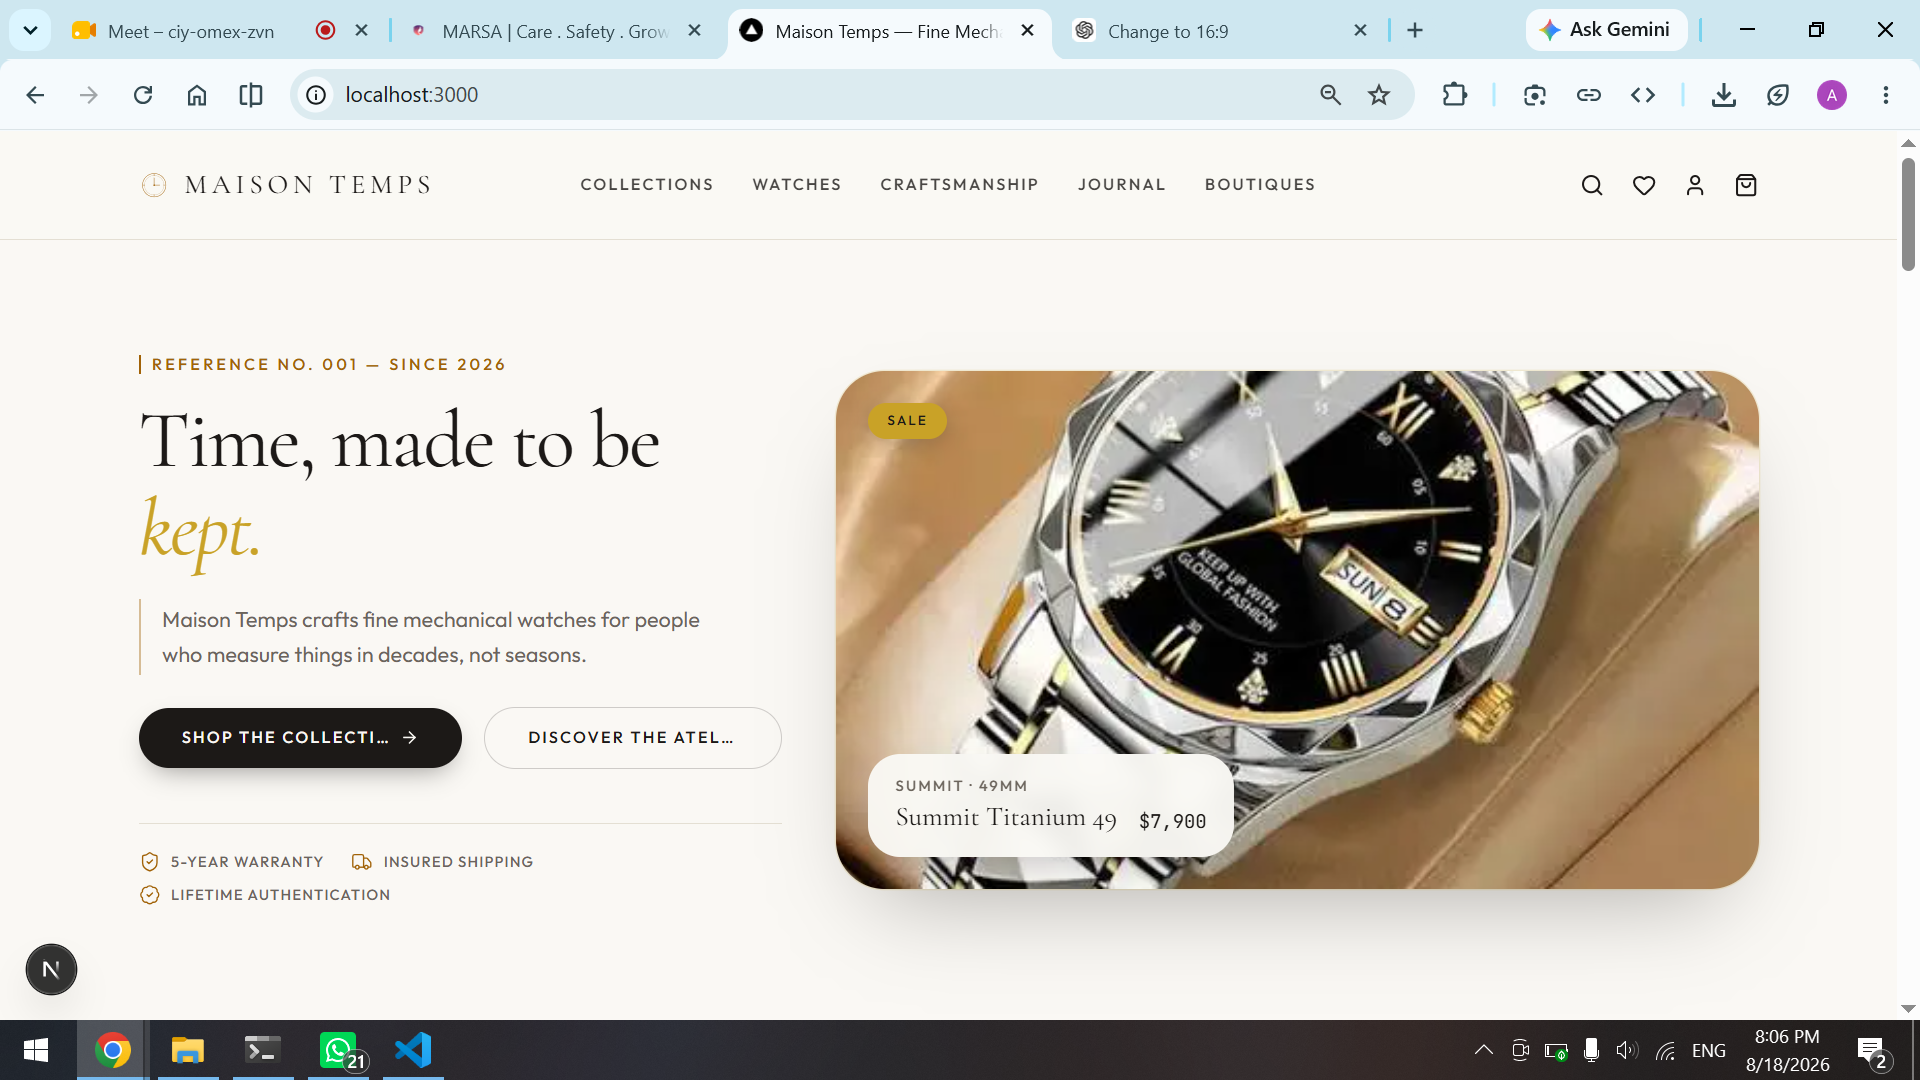
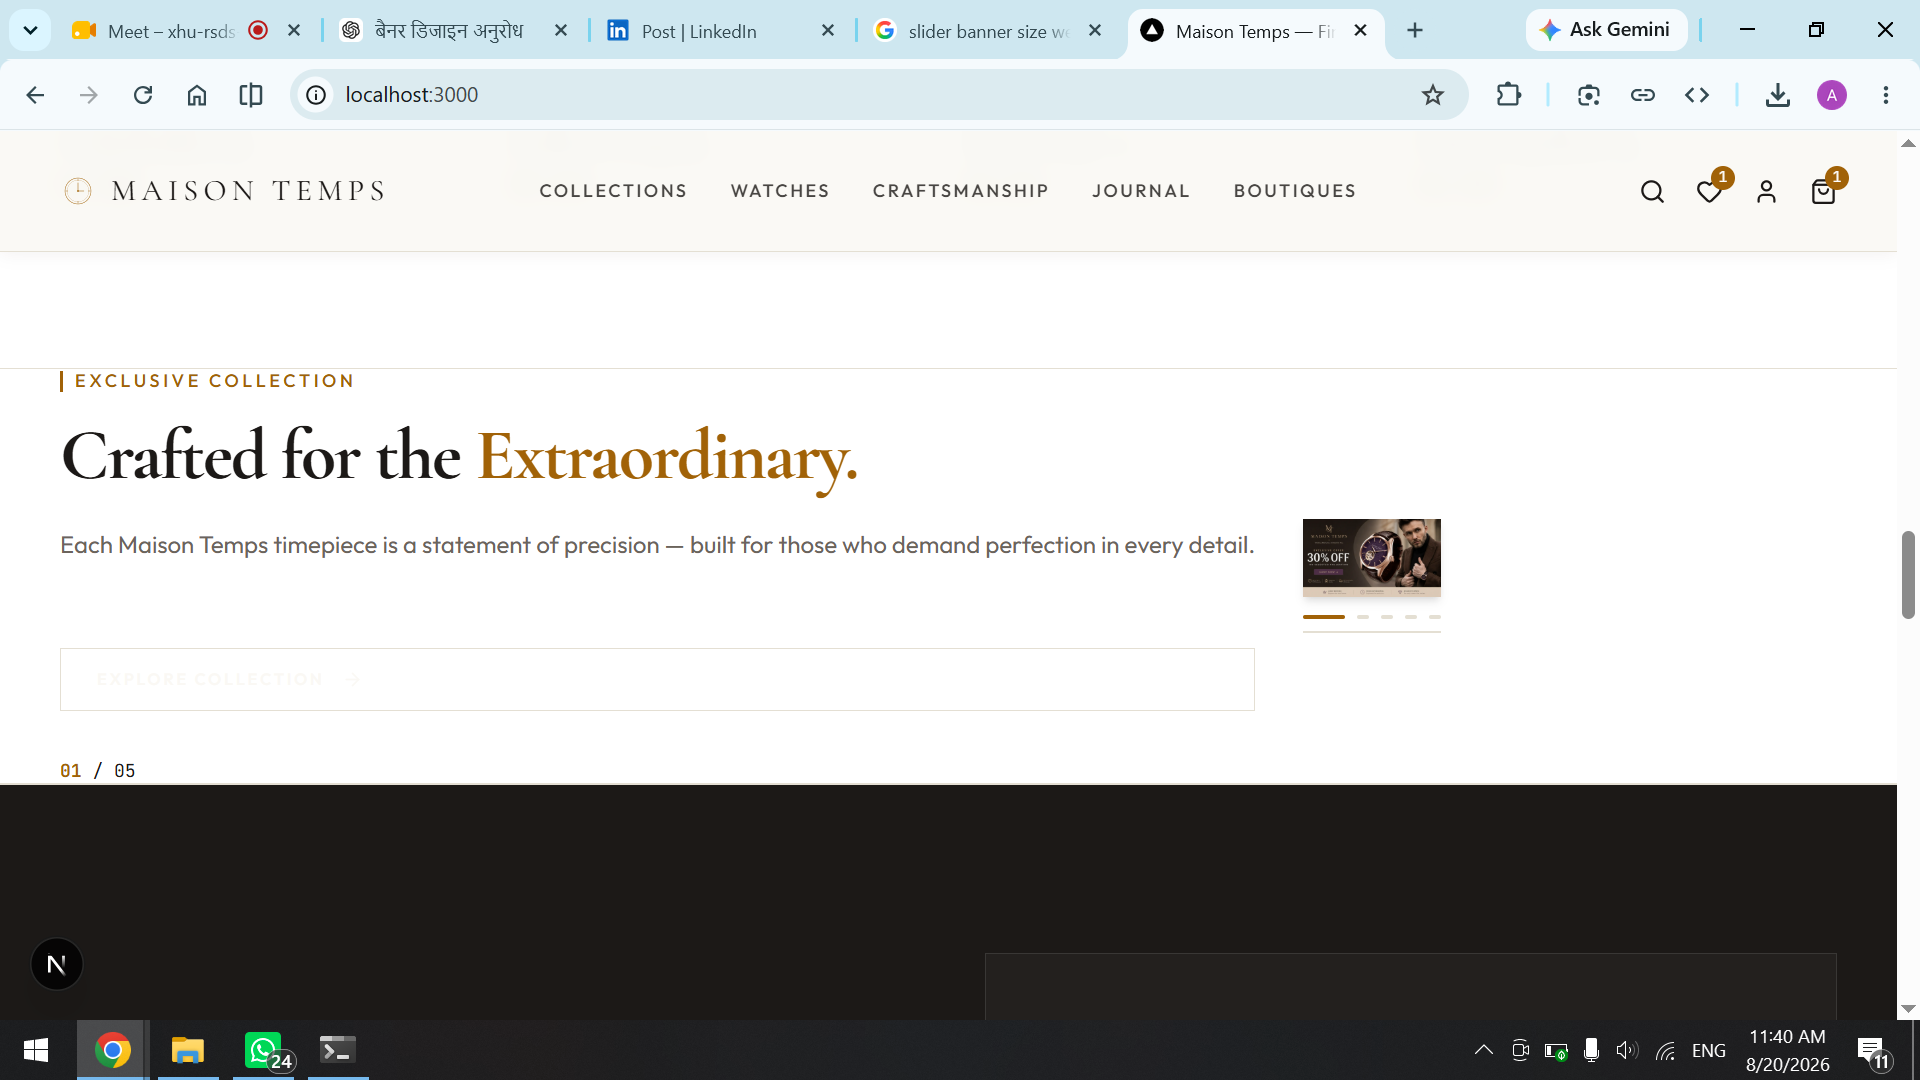
update

diff --git a/src/components/home/banner-slider.tsx b/src/components/home/banner-slider.tsx
@@ -2,7 +2,8 @@
 
 import { useState, useEffect, useCallback } from "react";
 import Image from "next/image";
-import { ChevronLeft, ChevronRight } from "lucide-react";
+import Link from "next/link";
+import { ChevronLeft, ChevronRight, ArrowRight } from "lucide-react";
 
 // Served in numeric order: 1 → 2 → 3 → 4 → 5
 const SLIDES = [
@@ -42,88 +43,127 @@ export function BannerSlider() {
 
   return (
     <section
-      className="w-full bg-white pb-5 pt-0"
+      className="w-full border-y border-hairline bg-white py-10 lg:py-14"
       aria-label="Promotional banners"
       onMouseEnter={() => setPaused(true)}
       onMouseLeave={() => setPaused(false)}
     >
-      {/* ── Banner frame: small side margins like the reference ── */}
-      <div className="mx-5 sm:mx-7 lg:mx-9">
+      <div className="mx-auto max-w-7xl px-6 lg:px-10">
 
-        {/* Image container — explicit responsive height so Next.js fill works */}
-        <div className="group/banner relative h-[200px] w-full overflow-hidden bg-secondary sm:h-[290px] lg:h-[400px] xl:h-[460px]">
+        {/* ── Split layout: text left · carousel right ── */}
+        <div className="flex flex-col gap-8 lg:flex-row lg:items-center lg:gap-14">
 
-          {/* Slides */}
-          {SLIDES.map((src, i) => (
-            <div
-              key={src}
-              className={`absolute inset-0 transition-opacity duration-700 ease-in-out ${
-                i === current ? "opacity-100" : "pointer-events-none opacity-0"
-              }`}
-              aria-hidden={i !== current}
-            >
-              <Image
-                src={src}
-                alt={`Promotional banner ${i + 1}`}
-                fill
-                sizes="(min-width: 1280px) calc(100vw - 72px), (min-width: 640px) calc(100vw - 56px), calc(100vw - 40px)"
-                className="object-cover"
-                priority={i === 0}
-              />
+          {/* ── LEFT: Editorial text ── */}
+          <div className="flex flex-col justify-center lg:w-[38%]">
+
+            <span className="eyebrow">Exclusive Collection</span>
+
+            <h2 className="mt-4 font-serif text-4xl font-extrabold leading-[1.08] tracking-tight text-foreground lg:text-5xl">
+              Crafted for the{" "}
+              <em className="not-italic text-gold">Extraordinary.</em>
+            </h2>
+
+            <p className="mt-5 max-w-xs text-[13.5px] leading-relaxed text-stone">
+              Each Maison Temps timepiece is a statement of precision —
+              built for those who demand perfection in every detail.
+            </p>
+
+            {/* Gold rule */}
+            <div className="mt-6 flex items-center gap-3">
+              <div className="h-[2px] w-10 bg-gold" />
+              <div className="h-[2px] w-3 bg-gold/30" />
             </div>
-          ))}
 
-          {/* ── Left arrow — dark square, sits at edge of banner ── */}
-          <button
-            type="button"
-            onClick={prev}
-            aria-label="Previous banner"
-            className="absolute left-0 top-1/2 z-10 -translate-y-1/2 flex h-11 w-11 cursor-pointer items-center justify-center bg-ink/70 opacity-0 transition-all duration-200 hover:bg-ink/90 group-hover/banner:opacity-100 lg:h-13 lg:w-13"
-          >
-            <ChevronLeft className="h-5 w-5 text-white" strokeWidth={1.5} />
-          </button>
+            {/* CTA */}
+            <Link
+              href="/collections"
+              className="group mt-8 inline-flex w-fit items-center gap-3 border border-ink bg-ink px-6 py-3 text-[11px] font-semibold uppercase tracking-[0.16em] text-white transition-all duration-200 hover:border-gold hover:bg-gold"
+            >
+              Explore Collection
+              <ArrowRight className="h-3.5 w-3.5 transition-transform duration-200 group-hover:translate-x-0.5" strokeWidth={2} />
+            </Link>
 
-          {/* ── Right arrow ── */}
-          <button
-            type="button"
-            onClick={next}
-            aria-label="Next banner"
-            className="absolute right-0 top-1/2 z-10 -translate-y-1/2 flex h-11 w-11 cursor-pointer items-center justify-center bg-ink/70 opacity-0 transition-all duration-200 hover:bg-ink/90 group-hover/banner:opacity-100 lg:h-13 lg:w-13"
-          >
-            <ChevronRight className="h-5 w-5 text-white" strokeWidth={1.5} />
-          </button>
-        </div>
+            {/* Slide counter */}
+            <p className="mt-8 font-mono text-xs text-stone/50">
+              <span className="text-gold font-semibold">{String(current + 1).padStart(2, "0")}</span>
+              {" / "}
+              {String(SLIDES.length).padStart(2, "0")}
+            </p>
+          </div>
 
-        {/* ── Dots + progress — below the banner, on white ── */}
-        <div className="mt-3 flex flex-col items-center gap-2.5">
+          {/* ── RIGHT: Banner carousel ── */}
+          <div className="lg:w-[62%]">
 
-          {/* Dots */}
-          <div className="flex items-center gap-2">
-            {SLIDES.map((_, i) => (
+            {/* Image frame — padding-bottom 56.25% = reliable 16:9 in any flex context */}
+            <div className="group/banner relative w-full overflow-hidden bg-secondary shadow-md" style={{ paddingBottom: "56.25%", height: 0 }}>
+              {/* Slides */}
+              {SLIDES.map((src, i) => (
+                <div
+                  key={src}
+                  className={`absolute inset-0 transition-opacity duration-700 ease-in-out ${
+                    i === current ? "opacity-100" : "pointer-events-none opacity-0"
+                  }`}
+                  aria-hidden={i !== current}
+                >
+                  <Image
+                    src={src}
+                    alt={`Promotional banner ${i + 1}`}
+                    fill
+                    sizes="(min-width: 1024px) 60vw, 100vw"
+                    className="object-cover"
+                    priority={i === 0}
+                  />
+                </div>
+              ))}
+
+              {/* Prev arrow */}
               <button
-                key={i}
                 type="button"
-                onClick={() => goTo(i)}
-                aria-label={`Go to banner ${i + 1}`}
-                className={`h-[3px] cursor-pointer rounded-full transition-all duration-300 ${
-                  i === current
-                    ? "w-7 bg-gold"
-                    : "w-2 bg-hairline hover:bg-gold/40"
-                }`}
-              />
-            ))}
+                onClick={prev}
+                aria-label="Previous banner"
+                className="absolute left-3 top-1/2 z-10 -translate-y-1/2 flex h-9 w-9 cursor-pointer items-center justify-center rounded-full border border-white/30 bg-white/20 opacity-0 shadow-lg backdrop-blur-md transition-all duration-200 hover:scale-110 hover:bg-white/35 group-hover/banner:opacity-100 lg:h-11 lg:w-11"
+              >
+                <ChevronLeft className="h-4 w-4 text-white" strokeWidth={2} />
+              </button>
+
+              {/* Next arrow */}
+              <button
+                type="button"
+                onClick={next}
+                aria-label="Next banner"
+                className="absolute right-3 top-1/2 z-10 -translate-y-1/2 flex h-9 w-9 cursor-pointer items-center justify-center rounded-full border border-white/30 bg-white/20 opacity-0 shadow-lg backdrop-blur-md transition-all duration-200 hover:scale-110 hover:bg-white/35 group-hover/banner:opacity-100 lg:h-11 lg:w-11"
+              >
+                <ChevronRight className="h-4 w-4 text-white" strokeWidth={2} />
+              </button>
+            </div>
+
+            {/* Dots + progress below image */}
+            <div className="mt-3 flex flex-col gap-2">
+              <div className="flex items-center gap-2">
+                {SLIDES.map((_, i) => (
+                  <button
+                    key={i}
+                    type="button"
+                    onClick={() => goTo(i)}
+                    aria-label={`Go to banner ${i + 1}`}
+                    className={`h-[3px] cursor-pointer rounded-full transition-all duration-300 ${
+                      i === current ? "w-7 bg-gold" : "w-2 bg-hairline hover:bg-gold/40"
+                    }`}
+                  />
+                ))}
+              </div>
+              <div className="h-px w-full bg-hairline">
+                {!paused && (
+                  <div
+                    key={`progress-${progressKey}`}
+                    className="h-full origin-left bg-gold"
+                    style={{ animation: `banner-progress ${DURATION}ms linear forwards` }}
+                  />
+                )}
+              </div>
+            </div>
           </div>
 
-          {/* Thin gold progress line */}
-          <div className="h-px w-full bg-hairline">
-            {!paused && (
-              <div
-                key={`progress-${progressKey}`}
-                className="h-full origin-left bg-gold"
-                style={{ animation: `banner-progress ${DURATION}ms linear forwards` }}
-              />
-            )}
-          </div>
         </div>
       </div>
     </section>
